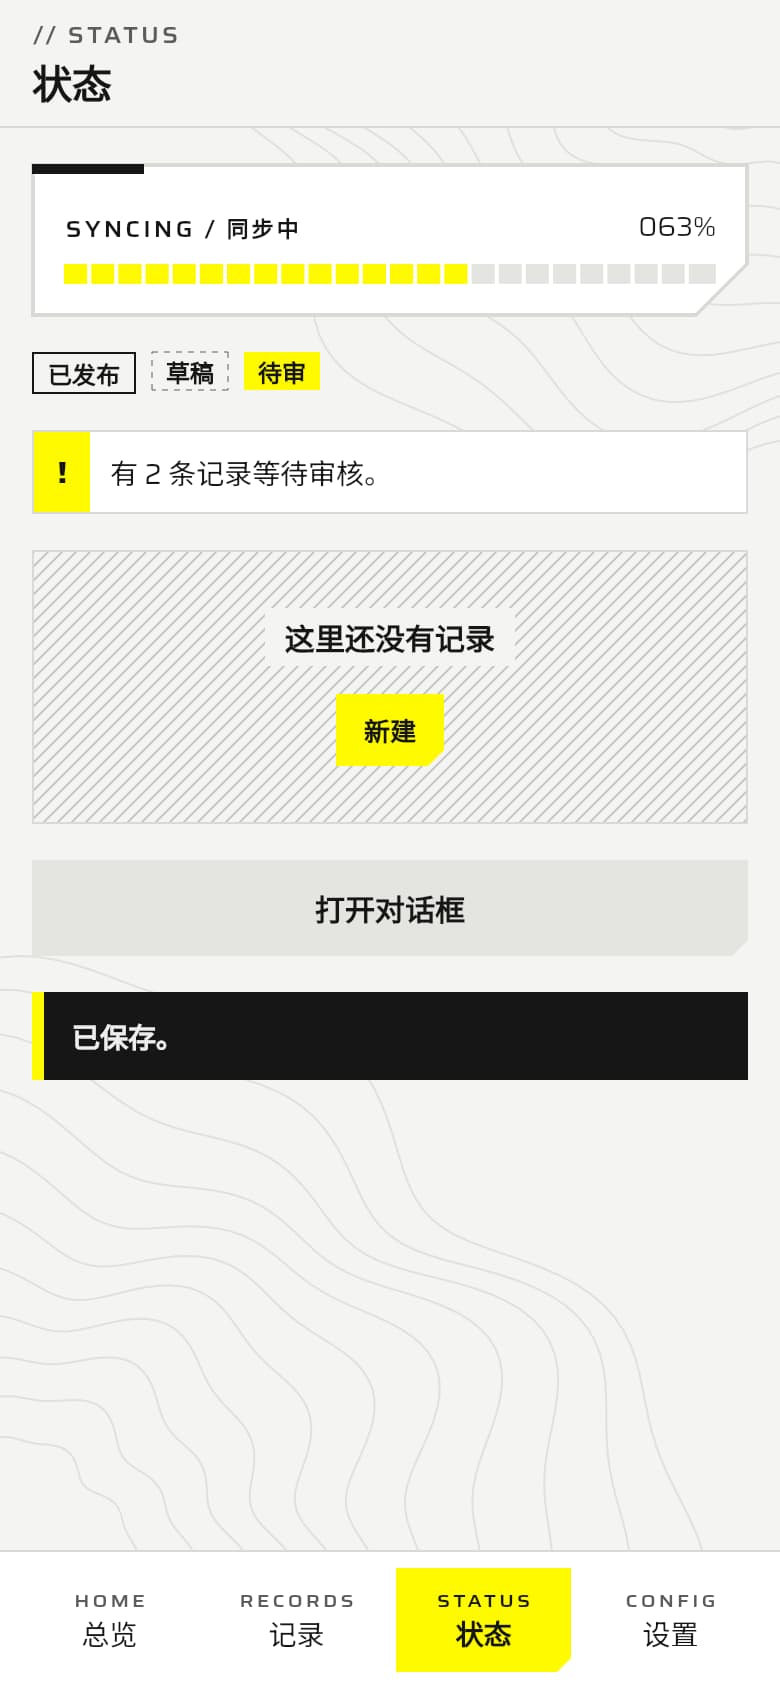
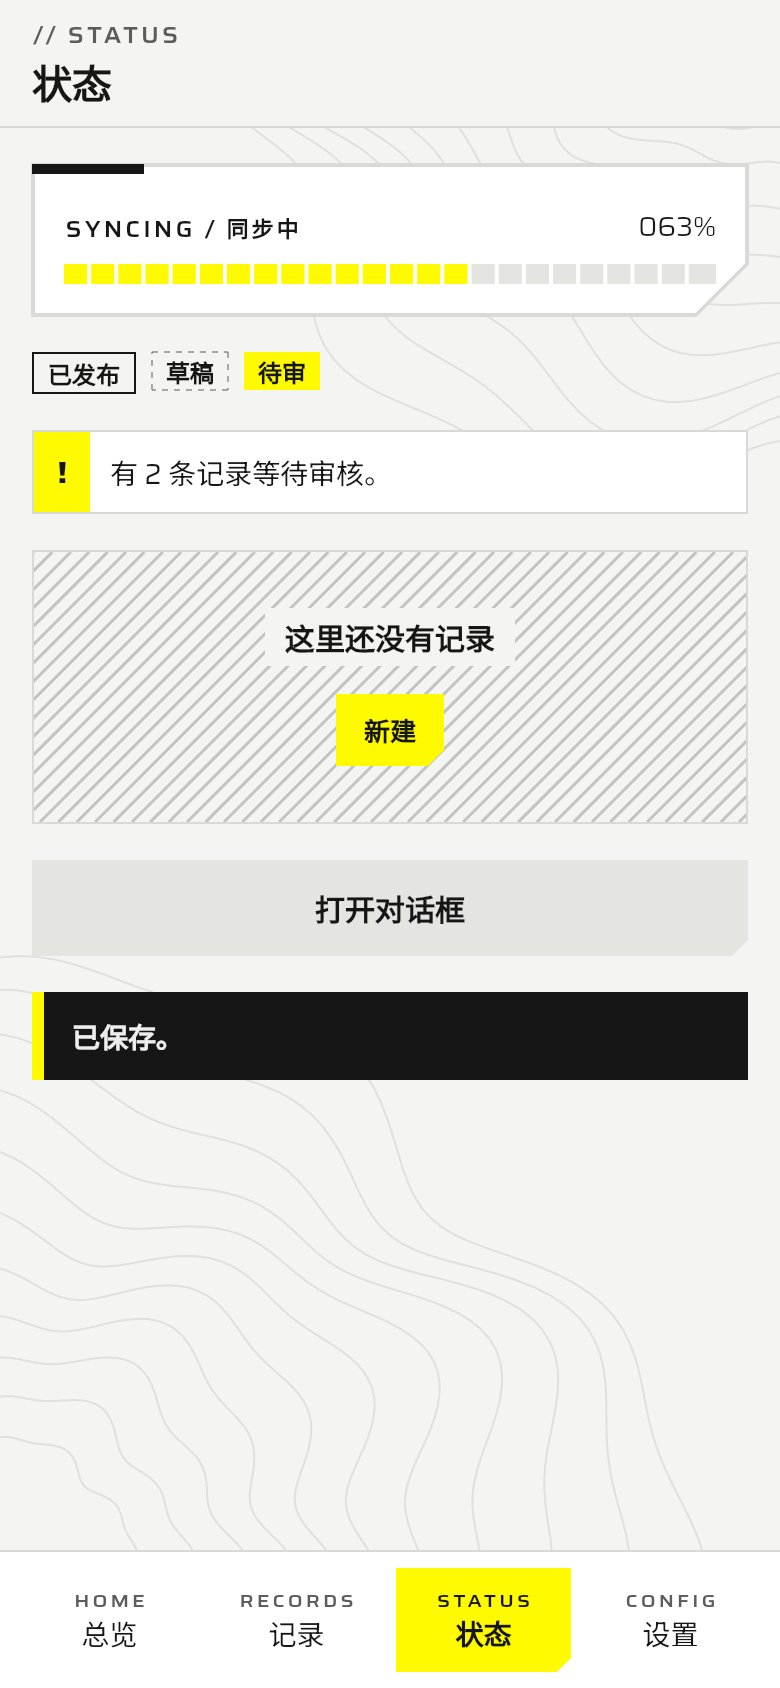
Rename the bottom sheet to .ef-drawer; refresh screenshots
.ef-sheet already names the reading page's white sheet. New Flutter app
screenshots (no yellow line on light), web screenshots for changed
templates, and app-*.jpg / motion-*.jpg for the new templates.

Changed region(s): [[0.0308, 0.3081, 0.9538, 0.4929], [0.5846, 0.955, 0.6462, 0.9858]]

diff --git a/assets/endfield.css b/assets/endfield.css
@@ -1792,7 +1792,7 @@ a.ef-record:is(:hover, :focus-visible) > * {
    wireDialogs() runs the open and close motion and handles Esc.
    Sheet: top-left corner cut, a hatch band with a grabber, eyebrow + title.
    Dialog: a panel with the heavy tab, bottom-right corner cut. */
-.ef-sheet,
+.ef-drawer,
 .ef-dialog {
   padding: 0;
   border: 0;
@@ -1801,40 +1801,40 @@ a.ef-record:is(:hover, :focus-visible) > * {
   color: var(--ef-ink);
   font-family: var(--ef-font-ui);
 }
-.ef-sheet::backdrop,
+.ef-drawer::backdrop,
 .ef-dialog::backdrop {
   background: rgb(22 22 22 / 0.5);
 }
-:root[data-theme='dark'] :is(.ef-sheet, .ef-dialog)::backdrop {
+:root[data-theme='dark'] :is(.ef-drawer, .ef-dialog)::backdrop {
   background: rgb(0 0 0 / 0.63);
 }
-.ef-sheet {
+.ef-drawer {
   inset: auto 0 0;
   width: 100%;
   max-height: 85dvh;
   margin: 0;
 }
-.ef-sheet > .body {
+.ef-drawer > .body {
   padding-bottom: calc(0.75rem + env(safe-area-inset-bottom, 0px));
   background: linear-gradient(135deg, transparent 1.6rem, var(--ef-panel) calc(1.6rem + 0.5px));
 }
-.ef-sheet .grab {
+.ef-drawer .grab {
   display: grid;
   place-items: center;
   height: 18px;
   margin-left: 1.6rem;
   background: var(--ef-hatch);
 }
-.ef-sheet .grab::after {
+.ef-drawer .grab::after {
   content: '';
   width: 40px;
   height: 4px;
   background: var(--ef-ink);
 }
-.ef-sheet header {
+.ef-drawer header {
   padding: 0.75rem var(--ef-pad) 0.5rem;
 }
-.ef-sheet .ef-pair > :last-child {
+.ef-drawer .ef-pair > :last-child {
   font-size: 1.25rem;
 }
 /* one action per row inside a sheet; danger text is red */
@@ -1865,10 +1865,10 @@ a.ef-record:is(:hover, :focus-visible) > * {
 .ef-act:active {
   background: var(--ef-paper);
 }
-.ef-sheet .ef-actions {
+.ef-drawer .ef-actions {
   padding: 0.75rem var(--ef-pad) 0;
 }
-.ef-sheet .ef-actions > .ef-btn {
+.ef-drawer .ef-actions > .ef-btn {
   flex: 1;
   justify-content: center;
 }
@@ -2004,23 +2004,23 @@ a.ef-record:is(:hover, :focus-visible) > * {
   .ef-out-wipe {
     animation: ef-wipe-out 200ms var(--ef-mech) both;
   }
-  .ef-sheet[open] > .body {
+  .ef-drawer[open] > .body {
     animation: ef-sheet-in 360ms var(--ef-mech) both;
   }
-  .ef-sheet[open]::backdrop,
+  .ef-drawer[open]::backdrop,
   .ef-dialog[open]::backdrop {
     animation: ef-fade 200ms linear both;
   }
   .ef-dialog[open] > * {
     animation: ef-power 280ms var(--ef-mech) both;
   }
-  .ef-sheet.is-closing > .body {
+  .ef-drawer.is-closing > .body {
     animation: ef-sheet-out 240ms var(--ef-mech) both;
   }
   .ef-dialog.is-closing > * {
     animation: ef-shut 180ms var(--ef-mech) both;
   }
-  :is(.ef-sheet, .ef-dialog).is-closing::backdrop {
+  :is(.ef-drawer, .ef-dialog).is-closing::backdrop {
     animation: ef-fade 160ms linear reverse both;
   }
   .ef-toast {
@@ -2114,7 +2114,7 @@ a.ef-record:is(:hover, :focus-visible) > * {
 }
 
 @media (prefers-reduced-motion: reduce) {
-  :is(.ef-sheet, .ef-dialog)::backdrop {
+  :is(.ef-drawer, .ef-dialog)::backdrop {
     animation: none !important;
   }
 }

diff --git a/assets/fx.js b/assets/fx.js
@@ -142,7 +142,7 @@ const settled = (el) =>
     Promise.allSettled(el.getAnimations({ subtree: true }).map((a) => a.finished)).then(() => done());
   });
 
-// Sheets and dialogs on <dialog class="ef-sheet"> / <dialog class="ef-dialog">.
+// Sheets and dialogs on <dialog class="ef-drawer"> / <dialog class="ef-dialog">.
 //   <button data-open="actions">…</button>   opens the dialog with that id
 //   <button data-close>取消</button>          inside a dialog: closes it
 // Opening pushes the sheet up (360ms mech) or switches the dialog on;
@@ -160,7 +160,7 @@ export function wireDialogs(root = document) {
   root.querySelectorAll('[data-open]').forEach((b) =>
     b.addEventListener('click', () => document.getElementById(b.dataset.open)?.showModal()),
   );
-  root.querySelectorAll('dialog:is(.ef-sheet, .ef-dialog)').forEach((d) => {
+  root.querySelectorAll('dialog:is(.ef-drawer, .ef-dialog)').forEach((d) => {
     d.addEventListener('cancel', (e) => {
       e.preventDefault();
       closeDialog(d);

diff --git a/templates/app.html b/templates/app.html
@@ -182,7 +182,7 @@
       <a href="?screen=states" data-tab="states"><small>Status</small>状态</a>
     </nav>
 
-    <dialog class="ef-sheet" id="actions" aria-labelledby="actions-title">
+    <dialog class="ef-drawer" id="actions" aria-labelledby="actions-title">
       <div class="body">
         <div class="grab" aria-hidden="true"></div>
         <header class="ef-pair" id="actions-title"><span class="ef-eyebrow slash">No.023 / Actions</span><span>第二阶段的设备清单</span></header>

diff --git a/templates/motion.html b/templates/motion.html
@@ -384,7 +384,7 @@
       </section>
     </main>
 
-    <dialog class="ef-sheet" id="sheet" aria-labelledby="sheet-title">
+    <dialog class="ef-drawer" id="sheet" aria-labelledby="sheet-title">
       <div class="body">
         <div class="grab" aria-hidden="true"></div>
         <header class="ef-pair" id="sheet-title"><span class="ef-eyebrow slash">No.023 / Actions</span><span>第二阶段的设备清单</span></header>

diff --git a/references/components.md b/references/components.md
@@ -374,12 +374,12 @@
 
 24 格的分段条，亮的格是黄的，读数补零。不知道进度时加 `.is-unknown`，一段黄格从左往右走，完成后换成有数的或者移除。不用转圈。骨架屏是 chip 色的块，不闪光。
 
-## 底部面板 `.ef-sheet`、对话框 `.ef-dialog`
+## 底部面板 `.ef-drawer`、对话框 `.ef-dialog`
 
 ```html
 <button data-open="actions">更多</button>
 
-<dialog class="ef-sheet" id="actions" aria-labelledby="t">
+<dialog class="ef-drawer" id="actions" aria-labelledby="t">
   <div class="body">
     <div class="grab" aria-hidden="true"></div>
     <header class="ef-pair" id="t"><span class="ef-eyebrow slash">No.023 / Actions</span><span>第二阶段的设备清单</span></header>
@@ -404,7 +404,7 @@
 </script>
 ```
 
-用原生 `<dialog>`，焦点圈在里面、Esc 能关、背后的页面不能点。面板左上切角、顶部斜线纹带和把手；对话框就是一块看板，确认在右，删除用 `.danger`。`dialog.returnValue` 是被点的那个 `data-close` 的值。
+类名是 `.ef-drawer` 而不是 sheet：`.ef-sheet` 是阅读页的白纸。用原生 `<dialog>`，焦点圈在里面、Esc 能关、背后的页面不能点。面板左上切角、顶部斜线纹带和把手；对话框就是一块看板，确认在右，删除用 `.danger`。`dialog.returnValue` 是被点的那个 `data-close` 的值。
 
 ## 提示条 `toast()`
 

diff --git a/references/motion.md b/references/motion.md
@@ -98,7 +98,7 @@
 
 | 东西 | 进入 | 退出 | 网页 |
 | --- | --- | --- | --- |
-| 底部面板 | 从下推入 360 | 推回下面 240 | `dialog.ef-sheet` + `fx.js` `wireDialogs()` |
+| 底部面板 | 从下推入 360 | 推回下面 240 | `dialog.ef-drawer` + `fx.js` `wireDialogs()` |
 | 遮罩 | 淡入 200 | 淡出 160 | `::backdrop` |
 | 对话框 | 通电（从上往下展开）280 | 从下往上关上 180 | `dialog.ef-dialog` + `wireDialogs()` |
 | 提示条（toast） | 从左擦入 280，停 2000 | 向右擦掉 160 | `fx.js` `toast()` |
